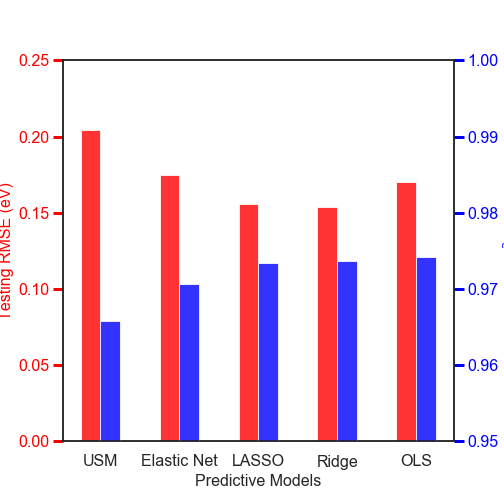
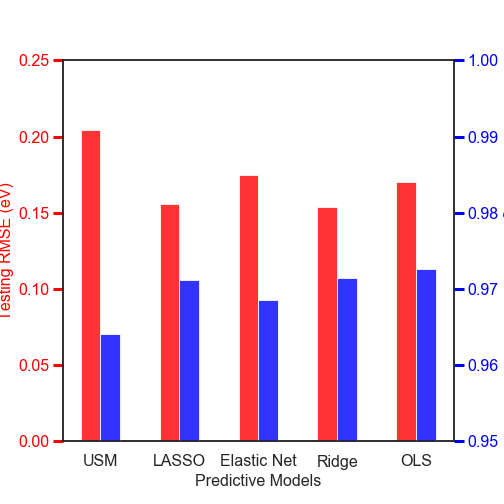
updated graphs

diff --git a/sac_stability_v3.py b/sac_stability_v3.py
@@ -124,6 +124,8 @@ y_predict_train = lasso_cv.predict(X_train)
 
 lasso_RMSE_test = np.sqrt(mean_squared_error(y_test, y_predict_test))
 lasso_RMSE_train = np.sqrt(mean_squared_error(y_train, y_predict_train))
+lasso_r2_train = r2_score(y_train, y_predict_train)
+
 
 ##Use alpha grid prepare for lassopath
 lasso_RMSE_path, lasso_coef_path = rtools.cal_path(alphas_grid, Lasso, X_cv_train, y_cv_train, X_cv_test, y_cv_test, fit_int_flag)
@@ -139,6 +141,15 @@ J_index = np.nonzero(lasso_coefs)[0]
 n_nonzero = len(J_index)
 # The values of non-zero coefficients/significant cluster interactions  
 J_nonzero = lasso_coefs[J_index] 
+
+#%%
+'''
+Convert the coefficient to unnormalized form
+'''
+lasso_coefs_unnormailized = np.zeros(len(terms))
+lasso_coefs_unnormailized[1:] = lasso_coefs[1:]/sv
+lasso_coefs_unnormailized[0] = lasso_coefs[0] - np.sum(mv/sv*lasso_coefs[1:])
+
 
 #%%
 '''
@@ -165,6 +176,7 @@ y_predict_train = ridgeCV.predict(X_train)
 
 ridge_RMSE_test = np.sqrt(mean_squared_error(y_test, y_predict_test))
 ridge_RMSE_train = np.sqrt(mean_squared_error(y_train, y_predict_train))
+ridge_r2_train = r2_score(y_train, y_predict_train)
 
 
 # plot the rigde path
@@ -175,7 +187,9 @@ rtools.plot_performance(X, y, ridgeCV,model_name, output_dir)
 ridge_RMSE, ridge_r2 = rtools.parity_plot(y, ridgeCV.predict(X), model_name, output_dir)
 rtools.plot_coef(ridgeCV.coef_, terms, model_name, output_dir)
 
-
+ridge_coefs_unnormailized = np.zeros(len(terms))
+ridge_coefs_unnormailized[1:] = ridge_coefs[1:]/sv
+ridge_coefs_unnormailized[0] = ridge_coefs[0] - np.sum(mv/sv*lasso_coefs[1:])
 #%%
 
 from sklearn.linear_model import ElasticNetCV, enet_path, ElasticNet
@@ -210,7 +224,8 @@ def l1_enet(ratio):
     return enet_cv, enet_alpha, n_nonzero, enet_RMSE_test, enet_RMSE_train
 
 # The vector of l1 ratio
-l1s = list(np.around(np.arange(0.1,1,0.05), decimals= 2))
+l1s = [0.01]
+l1s = l1s + list(np.around(np.arange(0.1,1,0.05), decimals= 2))
 #l1s = [.1, .5, .7, .9,  .95,  .99, 1]
 #l1s = [0.95]
 
@@ -281,6 +296,7 @@ enet05_alpha = enet05.alpha_
 enet05_coefs = enet05.coef_
 # The original intercepts 
 enet05_intercept = enet05.intercept_
+enet05_r2_train = r2_score(y_train, enet05.predict(X_train))
 
 
 # The indices for non-zero coefficients/significant cluster interactions 
@@ -292,6 +308,14 @@ J_nonzero = enet05_coefs[J_index]
 enet05_RMSE, enet05_r2 = rtools.parity_plot(y, enet05.predict(X), model_name, output_dir)
 rtools.plot_coef(enet05.coef_, terms, model_name, output_dir)
 
+
+#%%
+'''
+Convert the coefficient to unnormalized form
+'''
+enet05_coefs_unnormailized = np.zeros(len(terms))
+enet05_coefs_unnormailized[1:] = enet05_coefs[1:]/sv
+enet05_coefs_unnormailized[0] = enet05_coefs[0] - np.sum(mv/sv*enet05_coefs[1:])
 #%%
 '''
 PLS regression 
@@ -304,6 +328,7 @@ PLS.fit(X_train,y_train)
 # Access the errors 
 y_predict_test = PLS.predict(X_test)
 y_predict_train = PLS.predict(X_train)
+PLS_r2_train = r2_score(y_train, y_predict_train)
 
 PLS_RMSE_test = np.sqrt(mean_squared_error(y_test, y_predict_test))
 PLS_RMSE_train = np.sqrt(mean_squared_error(y_train, y_predict_train))
@@ -325,6 +350,7 @@ OLS_coefs = OLS.coef_
 # Access the errors 
 y_predict_test = OLS.predict(X_test)
 y_predict_train = OLS.predict(X_train)
+OLS_r2_train = r2_score(y_train, y_predict_train)
 
 OLS_RMSE_test = np.sqrt(mean_squared_error(y_test, y_predict_test))
 OLS_RMSE_train = np.sqrt(mean_squared_error(y_train, y_predict_train))
@@ -332,7 +358,9 @@ OLS_RMSE_train = np.sqrt(mean_squared_error(y_train, y_predict_train))
 OLS_RMSE, OLS_r2 = rtools.parity_plot(y, OLS.predict(X), model_name, output_dir)
 rtools.plot_coef(OLS.coef_, terms, model_name, output_dir)
 
-
+OLS_coefs_unnormailized = np.zeros(len(terms))
+OLS_coefs_unnormailized[1:] = OLS_coefs[1:]/sv
+OLS_coefs_unnormailized[0] = OLS_coefs[0] - np.sum(mv/sv*OLS_coefs[1:])
 #%%
 '''
 Univerisal scaling relation
@@ -367,6 +395,7 @@ X_USR = X_init[:,0:2]
 # Access the errors 
 y_predict_test = USR(X_USR_test)
 y_predict_train = USR(X_USR_train)
+USR_r2_train = r2_score(y_train, y_predict_train)
 
 
 USR_RMSE_test = np.sqrt(mean_squared_error(y_test, y_predict_test))
@@ -386,8 +415,8 @@ if not os.path.exists(output_dir): os.makedirs(output_dir)
 
 fig, ax = plt.subplots(figsize=(7, 7))
 
-ax.scatter(y, lasso_cv.predict(X), label='LASSO ($R^2$ = 0.973)', facecolors='r', alpha = 0.7, s  = 60)
-ax.scatter(y, USR(X_USR), label='USM ($R^2$ = 0.966)', facecolors='b', marker="o", alpha = 0.7, s  = 60)
+ax.scatter(y, lasso_cv.predict(X), label='LASSO ($R^2$ = 0.971)', facecolors='r', alpha = 0.7, s  = 60)
+ax.scatter(y, USR(X_USR), label='USM ($R^2$ = 0.964)', facecolors='b', marker="o", alpha = 0.7, s  = 60)
 ax.plot([y.min(), y.max()], [y.min(), y.max()], 'k--', lw=2)
 ax.set_xticks(np.arange(0,4,0.5))
 ax.set_xlabel('DFT-Calculated (eV)')
@@ -402,13 +431,13 @@ fig.savefig(os.path.join(output_dir, model_name + '_performance.png'))
 Compare different regression method
 '''
 
-regression_method = [ 'USM', 'Elastic Net', 'LASSO', 'Ridge', 'OLS']
+regression_method = [ 'USM',  'LASSO', 'Elastic Net', 'Ridge', 'OLS']
 n_method = len(regression_method)
 
-means_test = np.array([ USR_RMSE_test, enet05_RMSE_test, lasso_RMSE_test, ridge_RMSE_test, OLS_RMSE_test])
+means_test = np.array([ USR_RMSE_test,  lasso_RMSE_test, enet05_RMSE_test, ridge_RMSE_test, OLS_RMSE_test])
 
-r2s = np.array([ USR_r2, enet05_r2, lasso_r2, ridge_r2, OLS_r2])
-
+#r2s = np.array([ USR_r2, enet05_r2, lasso_r2, ridge_r2, OLS_r2])
+r2s = np.array([ USR_r2_train,  lasso_r2_train, enet05_r2_train, ridge_r2_train, OLS_r2_train])
 base_line = 0
 x_pos = np.arange(len(regression_method))
 opacity = 0.8
@@ -431,7 +460,7 @@ ax1.set_ylabel('Testing RMSE (eV)', color = 'r')
 ax1.set_ylim([0, 0.25])
 ax1.tick_params('y', colors='r')
 
-ax2.set_ylabel('$R^2$',color = 'b')
+ax2.set_ylabel('Training $R^2$',color = 'b')
 ax2.set_ylim([0.95, 1])
 ax2.tick_params('y', colors='b')
 fig.savefig(os.path.join(output_dir, model_name + '_parity.png'))
@@ -462,5 +491,10 @@ ax.set_xlabel('Descriptor')
 ax.set_ylabel('Predictive Models')
 fig.savefig(os.path.join(output_dir, model_name + '_coef_heatmap.png'))
 
-#cbar = fig.colorbar(ax)
-#cbar.ax.tick_params(length=0, width=0)  
+#%% 
+'''
+Save the coefficients into a csv file
+'''
+coefs = np.array([lasso_coefs, lasso_coefs_unnormailized, enet05_coefs, enet05_coefs_unnormailized, ridge_coefs, ridge_coefs_unnormailized,  OLS_coefs, OLS_coefs_unnormailized])
+df_coefs = pd.DataFrame(coefs.T, columns = ['LASSO', 'LASSO', 'Elastic Net', 'Elastic Net', 'Ridge', 'Ridge', 'OLS', 'OLS'])
+df_coefs.to_csv('Stability.csv')

diff --git a/Ebinding_v3.py b/Ebinding_v3.py
@@ -142,6 +142,7 @@ y_predict_train = lasso_cv.predict(X_train)
 
 lasso_RMSE_test = np.sqrt(mean_squared_error(y_test, y_predict_test))
 lasso_RMSE_train = np.sqrt(mean_squared_error(y_train, y_predict_train))
+lasso_r2_train = r2_score(y_train, y_predict_train)
 
 ##Use alpha grid prepare for lassopath
 lasso_RMSE_path, lasso_coef_path = rtools.cal_path(alphas_grid, Lasso, X_cv_train, y_cv_train, X_cv_test, y_cv_test, fit_int_flag)
@@ -183,6 +184,7 @@ y_predict_train = ridgeCV.predict(X_train)
 
 ridge_RMSE_test = np.sqrt(mean_squared_error(y_test, y_predict_test))
 ridge_RMSE_train = np.sqrt(mean_squared_error(y_train, y_predict_train))
+ridge_r2_train = r2_score(y_train, y_predict_train)
 
 
 # plot the rigde path
@@ -292,6 +294,7 @@ enet_RMSE_path_05, enet_coef_path_05 = rtools.cal_path(alphas_grid, ElasticNet, 
 rtools.plot_path(X, y, enet_alphas[l1s.index(0.5)], alphas_grid, enet_RMSE_path_05, enet_coef_path_05, enet05, model_name, output_dir)
 
 enet05_RMSE, enet05_r2 = rtools.cal_performance(X, y,enet05 )
+enet05_r2_train = r2_score(y_train, y_predict_train)
 
 # the optimal alpha from lassocv
 enet05_alpha = enet05.alpha_
@@ -328,6 +331,7 @@ y_predict_train = OLS.predict(X_train)
 
 OLS_RMSE_test = np.sqrt(mean_squared_error(y_test, y_predict_test))
 OLS_RMSE_train = np.sqrt(mean_squared_error(y_train, y_predict_train))
+OLS_r2_train = r2_score(y_train, y_predict_train)
 
 OLS_RMSE, OLS_r2 = rtools.parity_plot(y, OLS.predict(X), model_name, output_dir)
 #rtools.plot_coef(LM1.coef_, terms, model_name, output_dir)
@@ -355,7 +359,7 @@ def parity_plot_st(yobj,ypred, model_name, out_dir):
     ax.set_xlabel('DFT-Calculated (eV) ')
     ax.set_ylabel('Model Prediction (eV)')
     #plt.title(r'{}, RMSE-{:.2}, $r^2$ -{:.2}'.format(model_name, RMSE, r2))
-    plt.text(4,6, '$R^2$ = 0.956')
+    plt.text(4,6, '$R^2$ = 0.958')
     plt.legend(bbox_to_anchor = (1.02, 1),loc= 'upper left', frameon=False)
     fig.savefig(os.path.join(output_dir, model_name + '_parity_st.png'))
 
@@ -372,8 +376,9 @@ regression_method = [ 'Elastic Net', 'LASSO', 'Ridge', 'OLS']
 n_method = len(regression_method)
 
 means_test = np.array([ enet05_RMSE_test, lasso_RMSE_test, ridge_RMSE_test, OLS_RMSE_test])
+r2s = np.array([enet05_r2_train, lasso_r2_train, ridge_r2_train, OLS_r2_train])
 
-r2s = np.array([ enet05_r2, lasso_r2, ridge_r2, OLS_r2])
+#r2s = np.array([ enet05_r2, lasso_r2, ridge_r2, OLS_r2])
 
 base_line = 0
 x_pos = np.arange(len(regression_method))
@@ -397,6 +402,6 @@ ax1.set_ylabel('Testing RMSE (eV)', color = 'r')
 ax1.set_ylim([0, 0.8])
 ax1.tick_params('y', colors='r')
 
-ax2.set_ylabel('$R^2$',color = 'b')
+ax2.set_ylabel('Training $R^2$',color = 'b')
 ax2.set_ylim([0.9, 1])
 ax2.tick_params('y', colors='b')
